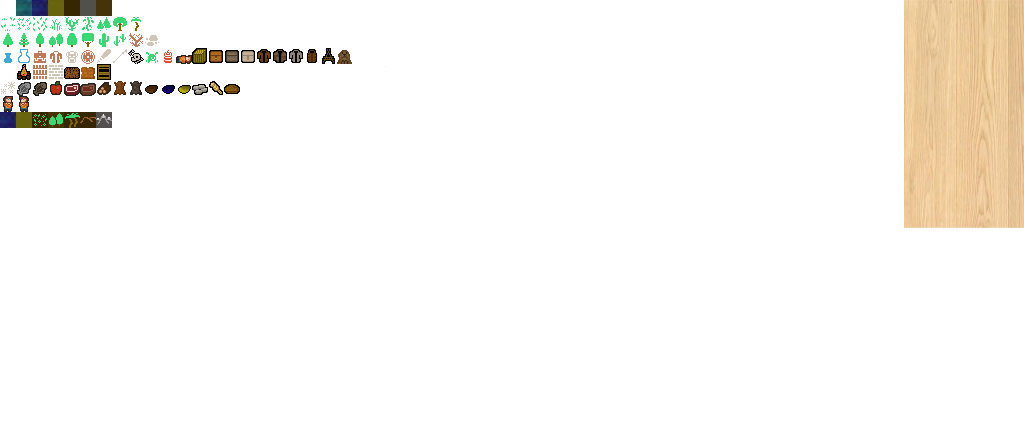
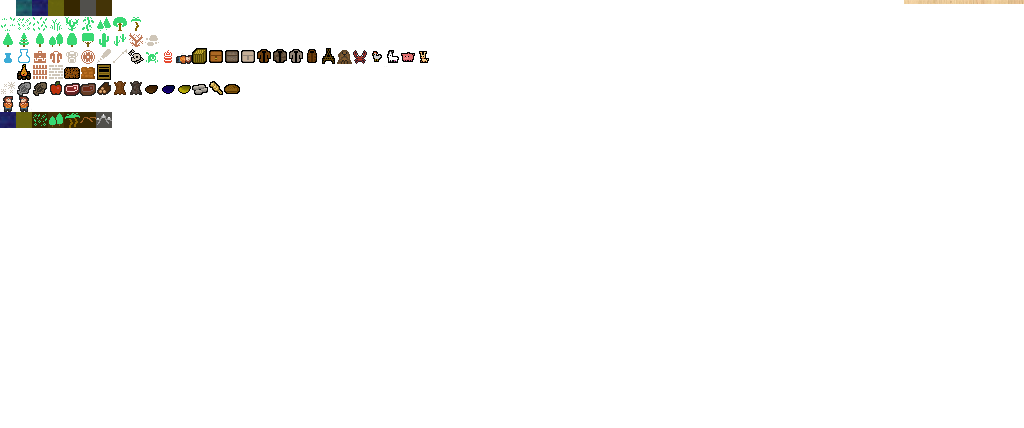
add some corpses

Changed region(s): [[0.875, 0.0, 1.0, 0.5467], [0.3438, 0.1215, 0.4375, 0.1519]]

diff --git a/src/sheet.rs b/src/sheet.rs
@@ -15,7 +15,7 @@ pub struct TileSheet {
     tile_height: i16,
 }
 
-const APPEARANCES: [(&str, Option<SheetPosition>, SheetPosition); 70] = [
+const APPEARANCES: [(&str, Option<SheetPosition>, SheetPosition); 74] = [
     ("SEA", None, (7, 0)),
     ("JUNGLE", None, (7, 4)),
     ("PLAIN", None, (7, 2)),
@@ -88,7 +88,11 @@ const APPEARANCES: [(&str, Option<SheetPosition>, SheetPosition); 70] = [
     ("ANIMAL_SKIN_CLOTHES", None, (3, 17)),
     ("LEATHER_CLOTHES", None, (3, 16)),
     ("LEATHER_BRIGANDINE", None, (3, 19)),
-    ("HARE", None, (3, 21)),
+    ("HARE", None, (3, 26)),
+    ("PIG", None, (3, 25)),
+    ("GOAT", None, (3, 24)),
+    ("MOORHEN", None, (3, 23)),
+    ("CRAB", None, (3, 22)),
 ];
 
 impl TileSheet {
